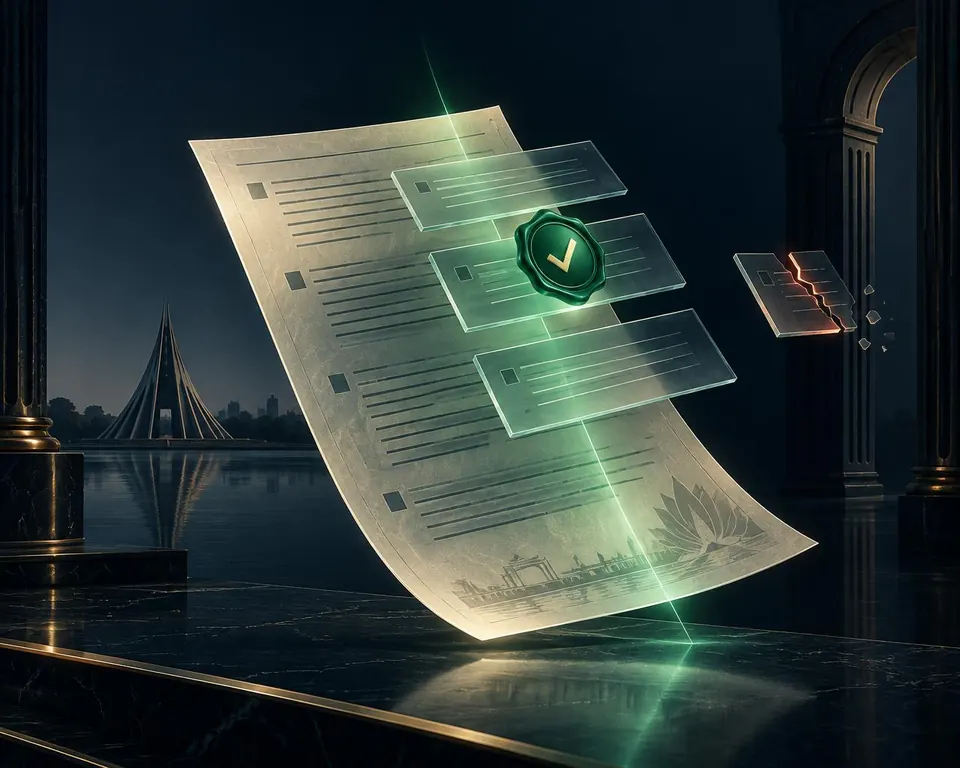
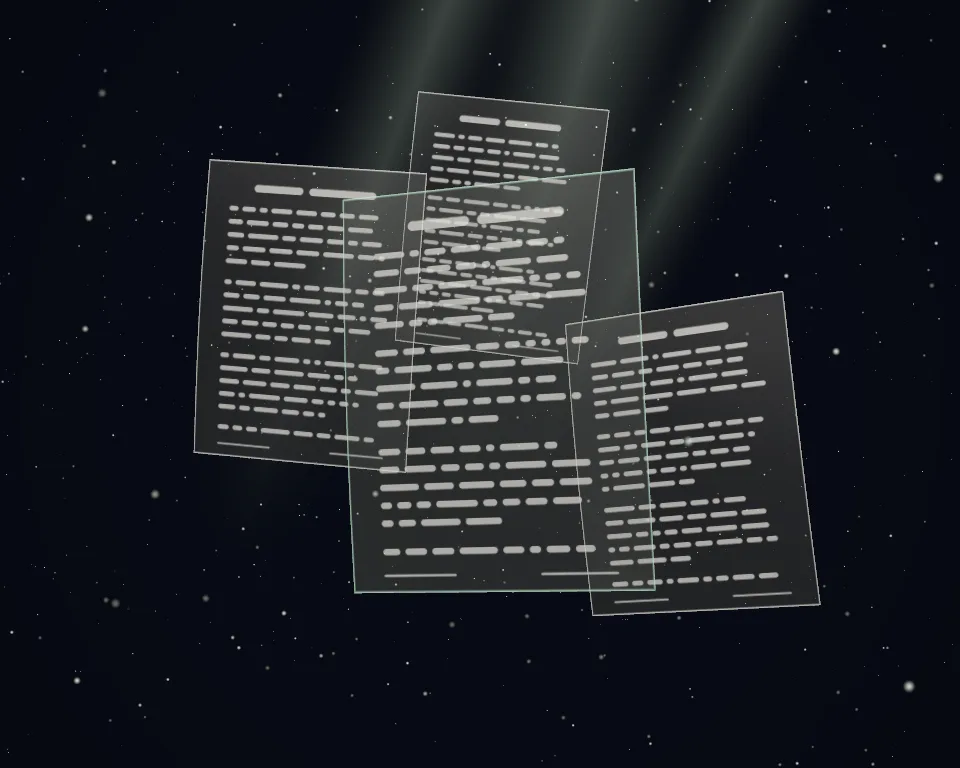
feat(frontend): poster and social image rendered from the scene itself
scripts/render-scene.mjs starts a Vite dev server, renders the cinematic scene in headless
Chromium with SwiftShader through a development-only page and writes the lite poster (replacing
the prototype picture) and the 1200 x 630 social image. --frames writes timeline frames.

Refs: FR-68, ADR-0023

diff --git a/frontend/src/features/landing/cinematic/renderEntry.ts b/frontend/src/features/landing/cinematic/renderEntry.ts
@@ -1,0 +1,67 @@
+/**
+ * Development-only entry for `scene-render.html`: renders the cinematic scene at a fixed timeline
+ * value so `scripts/render-scene.mjs` can make the poster and the social image from the scene
+ * itself. It is not part of the production build (Vite builds only `index.html`).
+ */
+import '../../../index.css'
+import { cssColorToHex } from '../oklch'
+import { createCinematicScene } from './scene'
+
+function token(name: string): string {
+  return cssColorToHex(getComputedStyle(document.documentElement).getPropertyValue(name))
+}
+
+const host = document.getElementById('stage')
+if (host === null) {
+  throw new Error('no stage')
+}
+const scene = createCinematicScene(
+  host,
+  {
+    paper: token('--foreground'),
+    verified: token('--verified'),
+    uncertain: token('--uncertain'),
+    rejected: token('--rejected'),
+    ink: token('--background'),
+  },
+  { preserveDrawingBuffer: true, autoStart: false },
+)
+
+declare global {
+  interface Window {
+    renderStill: (
+      t: number,
+      width: number,
+      height: number,
+      type: string,
+      centred?: boolean,
+    ) => Promise<string>
+  }
+}
+
+/** The opening sheets centred, for the poster inside the hero frame (no text beside it there). */
+const CENTRED = { position: [2.3, 0.3, 11.5], target: [2.5, 0, 0] } as const
+
+window.renderStill = (t, width, height, type, centred = false) =>
+  new Promise((resolve, reject) => {
+    const canvas = scene.renderStill(t, width, height, 6, centred ? CENTRED : undefined)
+    canvas.toBlob(
+      (blob) => {
+        if (blob === null) {
+          reject(new Error('no image'))
+          return
+        }
+        const reader = new FileReader()
+        reader.onload = () => {
+          resolve(typeof reader.result === 'string' ? reader.result : '')
+        }
+        reader.onerror = () => {
+          reject(new Error('read failed'))
+        }
+        reader.readAsDataURL(blob)
+      },
+      type,
+      0.82,
+    )
+  })
+document.body.dataset['ready'] = 'true'

diff --git a/frontend/index.html b/frontend/index.html
@@ -5,6 +5,14 @@
     <meta name="viewport" content="width=device-width, initial-scale=1.0" />
     <meta name="description" content="শ্রমিকAI: যাচাইকৃত চাকরির চুক্তি বিশ্লেষণ" />
     <title>শ্রমিকAI — যাচাইকৃত চুক্তি বিশ্লেষণ</title>
+    <!-- Social preview: rendered from the landing scene by scripts/render-scene.mjs (ADR-0023).
+         The URL is relative until the deployment has a fixed address (P11). -->
+    <meta property="og:title" content="শ্রমিকAI — যাচাইকৃত চুক্তি বিশ্লেষণ" />
+    <meta property="og:description" content="শ্রমিকAI: যাচাইকৃত চাকরির চুক্তি বিশ্লেষণ" />
+    <meta property="og:image" content="/og-image.jpg" />
+    <meta property="og:image:width" content="1200" />
+    <meta property="og:image:height" content="630" />
+    <meta name="twitter:card" content="summary_large_image" />
   </head>
   <body>
     <div id="root"></div>

diff --git a/frontend/scene-render.html b/frontend/scene-render.html
@@ -1,0 +1,13 @@
+<!doctype html>
+<html lang="en" data-theme="dark">
+  <head>
+    <meta charset="UTF-8" />
+    <meta name="viewport" content="width=device-width, initial-scale=1.0" />
+    <title>Scene render (development only)</title>
+  </head>
+  <body style="margin: 0">
+    <!-- Used only by scripts/render-scene.mjs on the Vite dev server; not part of the build. -->
+    <div id="stage" style="position: fixed; inset: 0"></div>
+    <script type="module" src="/src/features/landing/cinematic/renderEntry.ts"></script>
+  </body>
+</html>
